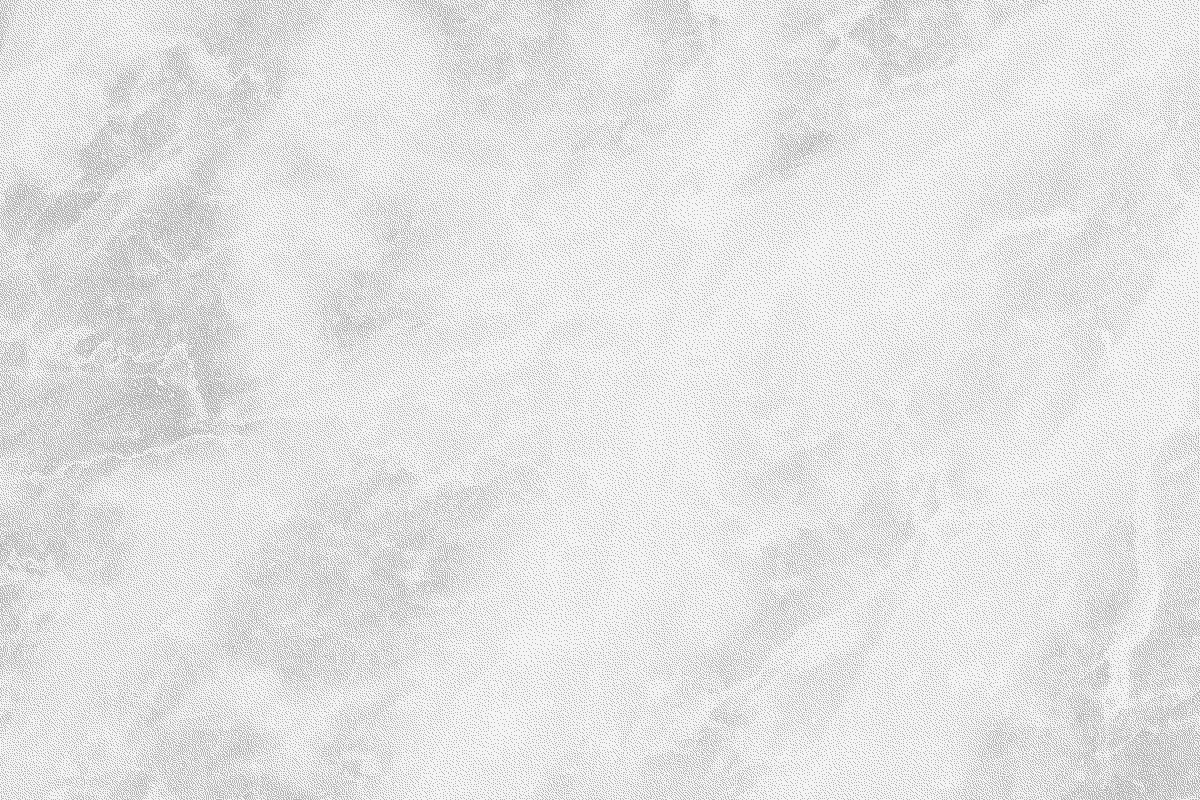
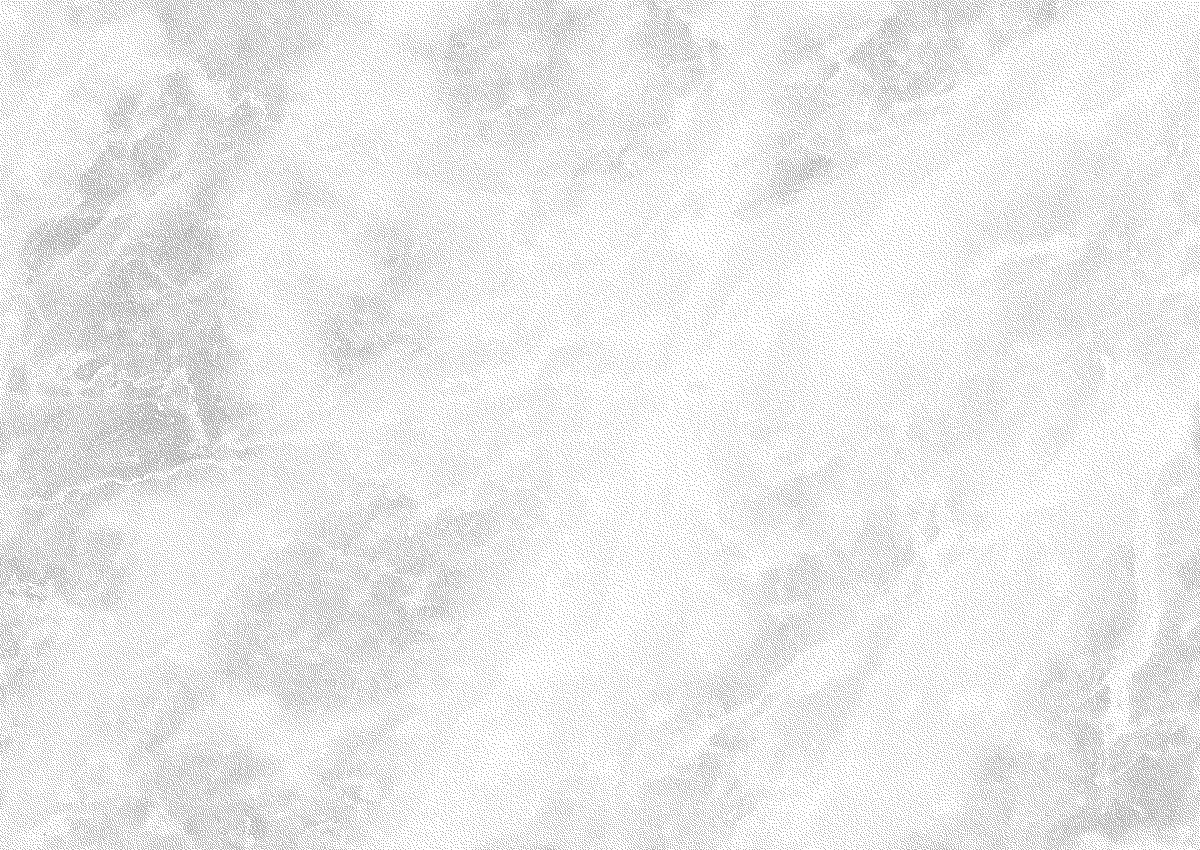
front page cleaned up. subtle change on visuals

diff --git a/js/rasterize.js b/js/rasterize.js
@@ -1,0 +1,48 @@
+var page = require('webpage').create(),
+    system = require('system'),
+    address, output, size;
+
+if (system.args.length < 3 || system.args.length > 5) {
+    console.log('Usage: rasterize.js URL filename [paperwidth*paperheight|paperformat] [zoom]');
+    console.log('  paper (pdf output) examples: "5in*7.5in", "10cm*20cm", "A4", "Letter"');
+    console.log('  image (png/jpg output) examples: "1920px" entire page, window width 1920px');
+    console.log('                                   "800px*600px" window, clipped to 800x600');
+    phantom.exit(1);
+} else {
+    address = system.args[1];
+    output = system.args[2];
+    page.viewportSize = { width: 6000, height: 4000 };
+    if (system.args.length > 3 && system.args[2].substr(-4) === ".pdf") {
+        size = system.args[3].split('*');
+        page.paperSize = size.length === 2 ? { width: size[0], height: size[1], margin: '0px' }
+                                           : { format: system.args[3], orientation: 'portrait', margin: '1cm' };
+    } else if (system.args.length > 3 && system.args[3].substr(-2) === "px") {
+        size = system.args[3].split('*');
+        if (size.length === 2) {
+            pageWidth = parseInt(size[0], 10);
+            pageHeight = parseInt(size[1], 10);
+            page.viewportSize = { width: pageWidth, height: pageHeight };
+            page.clipRect = { top: 0, left: 0, width: pageWidth, height: pageHeight };
+        } else {
+            console.log("size:", system.args[3]);
+            pageWidth = parseInt(system.args[3], 10);
+            pageHeight = parseInt(pageWidth * 3/4, 10); // it's as good an assumption as any
+            console.log ("pageHeight:",pageHeight);
+            page.viewportSize = { width: pageWidth, height: pageHeight };
+        }
+    }
+    if (system.args.length > 4) {
+        page.zoomFactor = system.args[4];
+    }
+    page.open(address, function (status) {
+        if (status !== 'success') {
+            console.log('Unable to load the address!');
+            phantom.exit(1);
+        } else {
+            window.setTimeout(function () {
+                page.render(output);
+                phantom.exit();
+            }, 200);
+        }
+    });
+}

diff --git a/style.css b/style.css
@@ -25,7 +25,7 @@ a{color:#444;border-bottom: 1px solid #444}
 a:hover, a:focus{color:#444;text-decoration:none;border-bottom:none;color:#000;}
 
 /*typography*/
-body, html{font-family: 'Trocchi', serif;background-color:#EEE;background-image: url("assets/marble2.png");background-size: 33.4%;}
+body, html{font-family: 'Trocchi', serif;background-color:#444;background-image: url('assets/marble2.png');background-size: 33.334%;}
 span, p{font-size:18px;font-weight:normal;color:#444;}
 a{color:#444;font-size:18px;}
 h1, h2, h3, h4, h5, h6{font-weight:normal;color:#444;line-height: 1.4em;}
@@ -54,4 +54,3 @@ ul.navbar-right>li>a{color:#444!important;}
 
 /*home*/
 .home-button {float:right;position:relative;top:-79px;z-index:1000;padding:1px 6px;margin-left:10px;}
-.all-ads a{text-decoration:none;color:#444}

diff --git a/parts/facevalue/facevalue.css b/parts/facevalue/facevalue.css
@@ -1,6 +1,6 @@
 .fv_char{float:left;}
 .fv_kerning{float:left;}
-.fv_dot{box-shadow: 2px 4px 12px rgba(0,0,0,0.3);background-color: #FFF;position:absolute;background-position: center;background-size: cover;}
+.fv_dot{box-shadow: 2px 4px 12px rgba(0,0,0,0.3);position:absolute;background-position: center;background-size: cover;}
 
 .on{background-size: cover;background-color: #FFF;}
 .off{box-shadow: none;}

diff --git a/page-buy.php b/page-buy.php
@@ -1,4 +1,7 @@
 <?php
+ob_start();
+session_start();
+
 ini_set('error_reporting', E_ALL);
 ini_set('display_errors', 'On');  //On or Off
 // settings
@@ -9,28 +12,6 @@ $file_S = "";
 $file_L = "";
 $ad_id = "";
 
-get_header();
-session_start();
-?>
-
-
-<script>
-jQuery(function () {
-  jQuery('[data-toggle="tooltip"]').tooltip()
-})
-</script>
-
-<div class="container">
-  <div class="row">
-    <div class="col-sm-6" style="padding-right:100px;">
-        <h2 style="margin-top:-4px">Buy our front page advertising</h2>
-        <h4>Here you can put up a new advert on the front page of Unlimited Limited. Currently we charge £1 per advertising.</h4>
-        <h5>Our front page will only display 50 latest advertisings. That means your ad could be replaced by new ones after a while, however it will be stored in our archive indefinately. You ad could also randomly appear on the printed matters of the Unlimited Limited.</h5>
-    </div>
-        
-    <div id="add_ad_forms" class="col-sm-6">
-    
-<?php
 $post_data = "";
 $files = "";
 
@@ -62,7 +43,6 @@ if(count($_POST) > 0) {
       }
       move_uploaded_file($fromfile,$tofile);
       
-      unlink($fromfile);
       unset($file);
       unset($uploader);
     }
@@ -83,6 +63,28 @@ else if (isset($_SESSION['post_data']) AND isset($_SESSION['files'])){
   ul_destroy_session();
 }
 
+get_header();
+
+?>
+
+
+<script>
+jQuery(function () {
+  jQuery('[data-toggle="tooltip"]').tooltip()
+})
+</script>
+
+<div class="container">
+  <div class="row">
+    <div class="col-sm-6" style="padding-right:100px;">
+        <h2 style="margin-top:-4px">Buy our front page advertising</h2>
+        <h4>Here you can put up a new advert on the front page of Unlimited Limited. Currently we charge £1 per advertising.</h4>
+        <h5>Our front page will only display 50 latest advertisings. That means your ad could be replaced by new ones after a while, however it will be stored in our archive indefinately. You ad could also randomly appear on the printed matters of the Unlimited Limited.</h5>
+    </div>
+        
+    <div id="add_ad_forms" class="col-sm-6">
+      
+<?php
     
     if ($post_data == "" AND $files == ""){
       ul_add_ad_render_step1();
@@ -228,6 +230,11 @@ function ul_add_ad_save_and_insert(){
     exit('Please choose a thumbnail image.');
   }
   
+  if ($files['image']['name'] == ""){
+    ul_destroy_session();
+    exit('Please choose a main advertising image file.');
+  }
+  
   if (!in_array($ext_l, $valid_exts)){
     ul_destroy_session();
     exit('File format of the main advertising image is not supported. (must be either jpg, png, or gif)');
@@ -237,12 +244,7 @@ function ul_add_ad_save_and_insert(){
     ul_destroy_session();
     exit('File format of the thumbnail is not supported. (must be either jpg, png, or gif)');
   }
-  
-  if ($files['image']['name'] == ""){
-    ul_destroy_session();
-    exit('Please choose a main advertising image file.');
-  }
-  
+
   // size and dimension check for thumbnails
   list($w, $h) = getimagesize($files['thumbnail']['tmp_name']);
   if( $files['thumbnail']['size'] > 1024*50 ){

diff --git a/home.php b/home.php
@@ -22,7 +22,7 @@ get_header(); ?>
     <a href="#" onclick="home_autoscroll()" class="dropdown-toggle"><span id="home-about" class="with-border home-button">About</span></a>
 </div>
 
-<div class="container-fluid" style="min-height:100vh;">
+<div class="container-fluid" style="min-height:100vh;background-color:#888;margin-top:-135px;padding-top:-135px">
 	<div class="row">
         <div style="height:30px;"></div>
 
@@ -33,7 +33,7 @@ get_header(); ?>
 </div>
 
 
-<div class="container-fluid" style="min-height:100vh;background-color:#FFFFC0;overflow:hidden;">
+<div class="container-fluid" style="min-height:100vh;overflow:hidden;">
 	<div class="row">
     	<div class="container" style="pointer-event:none;">
             <div class="row">
